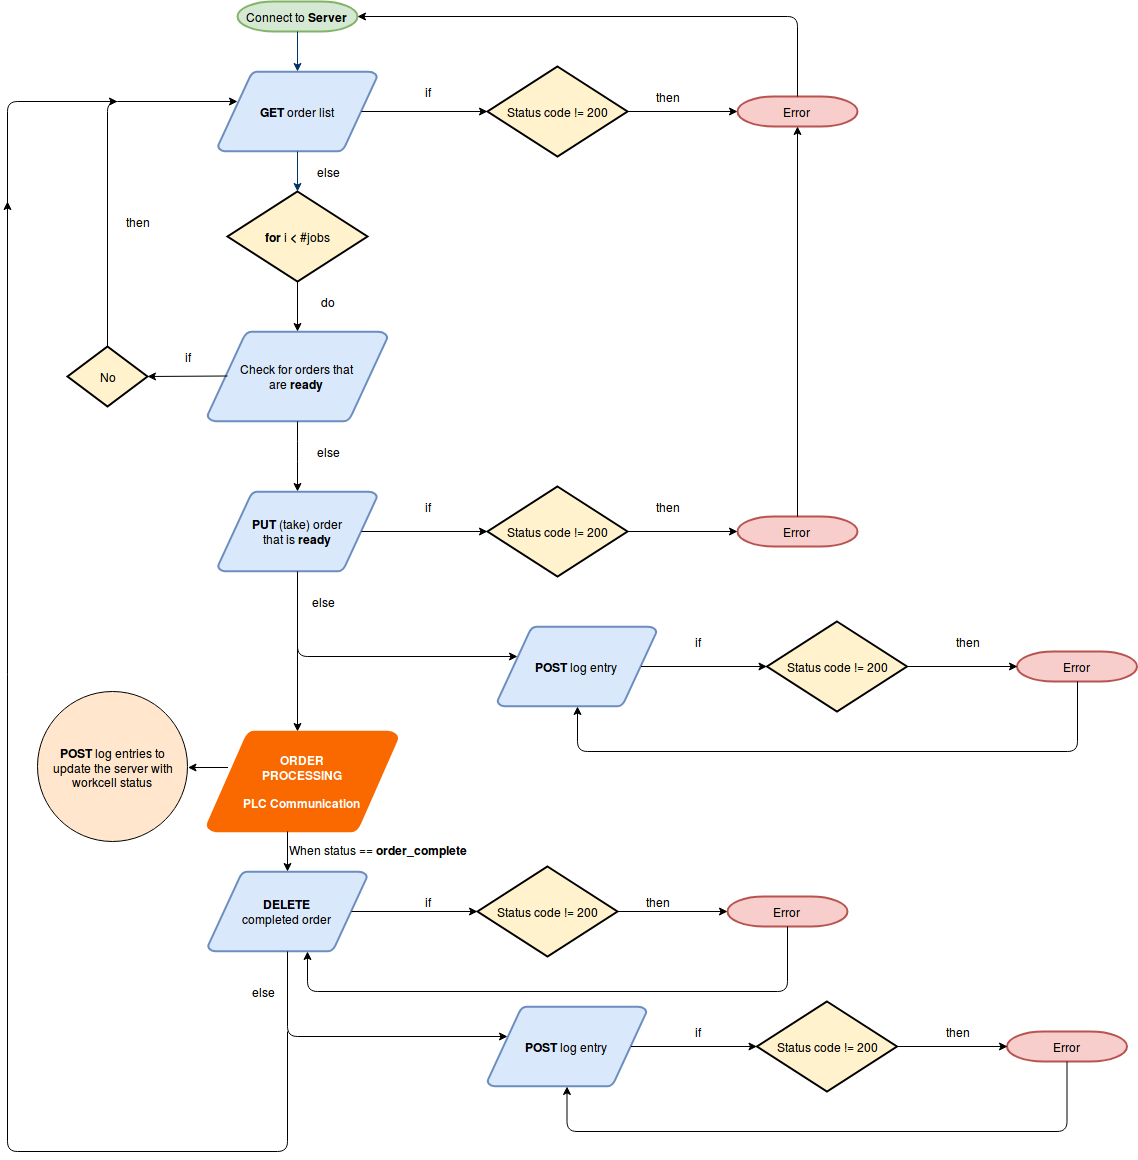
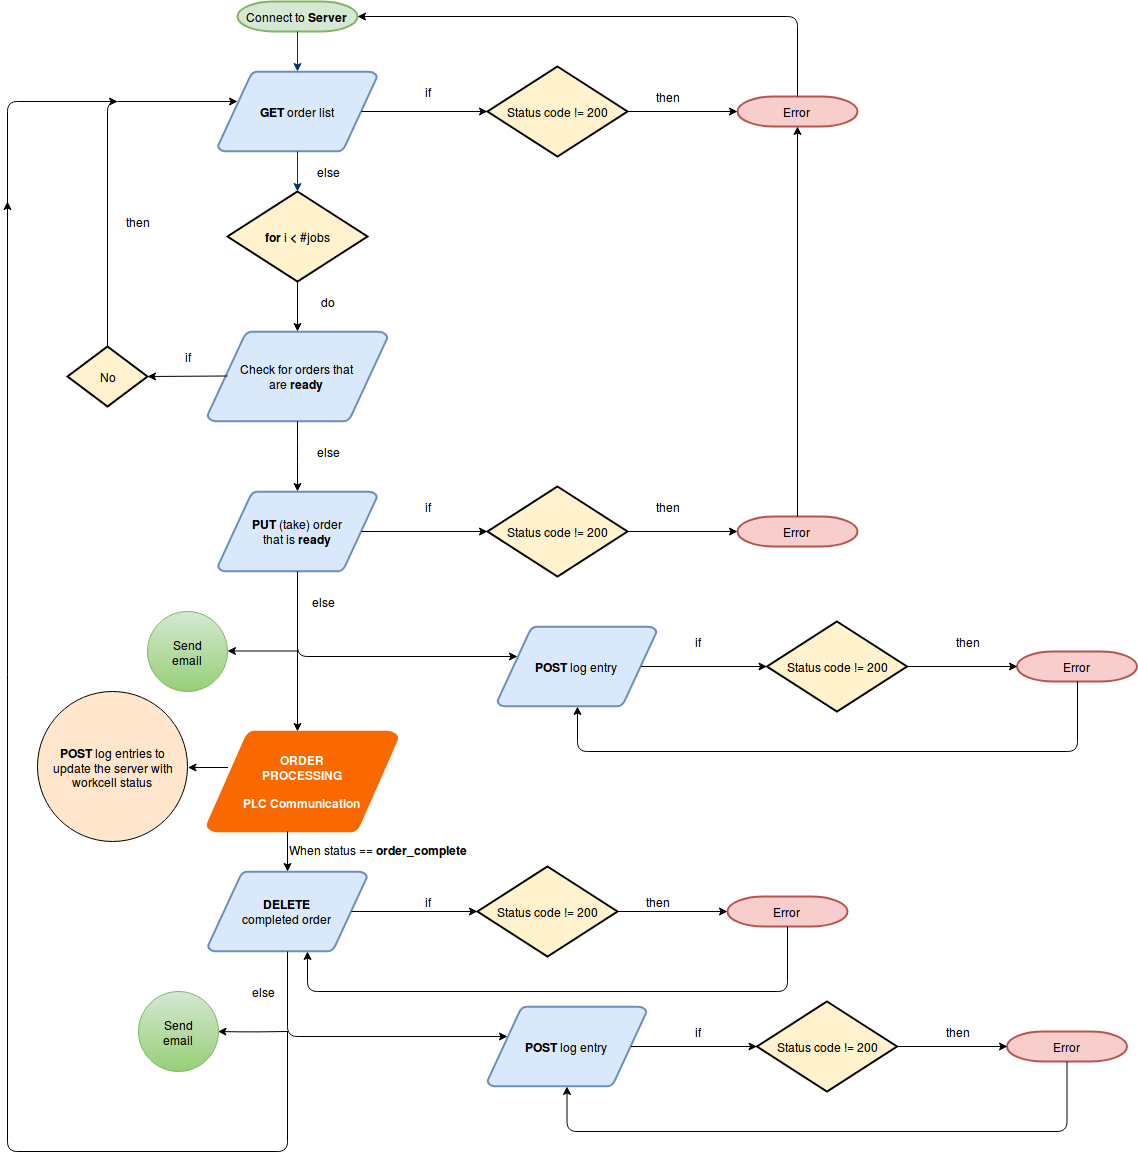
Client version 2.0

Changed region(s): [[0.123, 0.8379, 0.2153, 0.931], [0.123, 0.5276, 0.2153, 0.6207]]

diff --git a/RSD2018/Client/mes_client.py b/RSD2018/Client/mes_client.py
@@ -12,7 +12,10 @@ print "##  WORKCELL #3 ONLINE MANAGER  ##"
 print "################################## \n"
 
 # Define url and paths
-_url = 'http://localhost:5000'
+#_host = 'localhost' # Debug
+_host = '192.168.100.200'
+#_url = 'http://' + _host + ':5000'
+_url = 'http://' + _host
 _log = '/log'
 _orders = '/orders'
 _events = '/event_types'
@@ -73,11 +76,12 @@ while True:
         errSub = "WARNING! All orders taken!"
         rerrtime = mes_api.get_time(rerr.status_code)
         errMsg = Msg + rerrtime
-        feedback_api.mail_feedback(errSub, errMsg)
+        print errMsg
+        #feedback_api.mail_feedback(errSub, errMsg)
         if rerr.status_code != 200:
             print "Raised API Error on POST request. Status code " + str(rerr.status_code) + "\n"
         else:
-            print "POST request indicating No-Order status to" + _url + " succesful"
+            print "POST request indicating No-Order status to " + _url + " succesful"
             rerrtime = mes_api.get_time(rerr.status_code)
             print rerrtime
             mes_api.die(8)
@@ -97,14 +101,16 @@ while True:
             print rtime
 
             # Get the ticket of the order
-            ticket = mes_api.get_ticket(_id)
+            jsonPUT = r.json()
+            ticket = jsonPUT['ticket']
             putSub = "Order " + str(_id) + " ticket: " + str(ticket)
             print putSub
 
             # Send email notification
             hah = "Order taken and ready to be processed. \n" + "\n"
             putBody = putSub +"\n" + "\n" + hah + rtime
-            feedback_api.mail_feedback(putSub, putBody)
+            print putBody
+            #feedback_api.mail_feedback(putSub, putBody)
 
             # Call GET method to see 
             r2 = mes_api.get_single(_url, _orders, _id)
@@ -117,19 +123,19 @@ while True:
 
                 # Call POST method to add new log entry on Order_Start
                 _idstr = str(_id)
-                cmnt = str(ticket)
+                cmnt = _idstr + ", " + str(ticket)
                 r3 = mes_api.post_log(_url, _log, cell_id, cmnt, events_dict[7])
                 if r3.status_code != 200:
                     print "Raised API Error on POST request. Status code " + str(r3.status_code)
                 else:
-                    print "POST request " + _url + _orders + " succesful"
+                    print "POST request " + _url + _log + " succesful"
                     r3time = mes_api.get_time(r3.status_code)
                     print r3time
 
             #####     Order processing      #####
-            print "Processing order..."
-            mes_api.die(5)
-            mes_api.plc_control(_plc, events_dict, _url, _log, cell_id, cmnt)
+            print "Processing order... \n"
+            mes_api.die(25)
+            #mes_api.plc_control(_plc, events_dict, _url, _log, cell_id, cmnt)
 
 
             ##### PackML related code here  #####
@@ -138,9 +144,9 @@ while True:
             ##########################################################################
             # 3. DELETE ORDER -- Call DELETE method to erase completed order from DB #
             ##########################################################################
-            resp = mes_api.delete_order(_url, _orders, _id)
+            resp = mes_api.delete_order(_url, _orders, _id, ticket)
             if resp.status_code != 200:
-                print "Raised API Error on DELETE request. Status code " + str(resp.status_code)
+                print "Raised API Error on DELETE request. Status code " + str(resp.status_code) + "\n \n \n"
             else:
                 succDel = "DELETE request " + _url + _orders + " succesful"
                 print succDel
@@ -150,17 +156,18 @@ while True:
                 # Send email notification
                 lal = "Order " + str(_id) + " completed. \n \n Total score: \n" + str(mes_api.global_score) + " boxes. \n" + "\n"
                 delBody = succDel + "\n" + "\n" + lal + deltime
-                feedback_api.mail_feedback(putSub, delBody)                
+                print delBody
+                #feedback_api.mail_feedback(putSub, delBody)                
 
-                # Log entry indicating deletion of the complete order
+                # POST Log entry indicating deletion of the complete order
                 r4 = mes_api.post_log(_url, _log, cell_id, cmnt, events_dict[8])
                 if r4.status_code != 200:
                     print "Raised API Error on POST request. Status code " + str(r4.status_code)
                 else:
-                    print "POST request " + _url + _orders + " succesful"
+                    print "POST request " + _url + _log + " succesful"
                     r4time = mes_api.get_time(r4.status_code)
                     print r4time
-                    print "\n"
+                    print "\n \n \n \n"
 
 
 # Never ending loop

diff --git a/RSD2018/Client_rpi_version/mes_client.py b/RSD2018/Client_rpi_version/mes_client.py
@@ -12,7 +12,10 @@ print ("##  WORKCELL #3 ONLINE MANAGER  ##")
 print ("################################## \n")
 
 # Define url and paths
-_url = 'http://localhost:5000'
+#_host = 'localhost' # Debug
+_host = '192.168.100.200'
+#_url = 'http://localhost:5000' # Debug
+_url = 'http://' + _host
 _log = '/log'
 _orders = '/orders'
 _events = '/event_types'
@@ -69,6 +72,12 @@ while True:
     if _id == -1:
         cerr = "waiting - all orders taken"
         rerr = mes_api.post_log(_url, _log, cell_id, cerr, events_dict[0])
+        Msg = "No order is available at the moment. System is waiting. \n \n"
+        errSub = "WARNING! All orders taken!"
+        rerrtime = mes_api.get_time(rerr.status_code)
+        errMsg = Msg + rerrtime
+        #feedback_api.mail_feedback(errSub, errMsg)
+        print errMsg
         if rerr.status_code != 200:
             print ("Raised API Error on POST request. Status code " + str(rerr.status_code) + "\n")
         else:
@@ -92,14 +101,16 @@ while True:
             print rtime
 
             # Get the ticket of the order
-            ticket = mes_api.get_ticket(_id)
+            jsonPUT = r.json()
+            ticket = jsonPUT['ticket']
             putSub = "Order " + str(_id) + " ticket: " + str(ticket)
             print putSub
 
             # Send email notification
             hah = "Order taken and ready to be processed. \n" + "\n"
             putBody = putSub +"\n" + "\n" + hah + rtime
-            feedback_api.mail_feedback(putSub, putBody)
+            #feedback_api.mail_feedback(putSub, putBody)
+            print putBody
 
             # Call GET method to see 
             r2 = mes_api.get_single(_url, _orders, _id)
@@ -112,19 +123,19 @@ while True:
 
                 # Call POST method to add new log entry on Order_Start
                 _idstr = str(_id)
-                cmnt = str(ticket)
+                cmnt = _idstr + ", " + str(ticket)
                 r3 = mes_api.post_log(_url, _log, cell_id, cmnt, events_dict[7])
                 if r3.status_code != 200:
                     print ("Raised API Error on POST request. Status code " + str(r3.status_code))
                 else:
-                    print ("POST request " + _url + _orders + " succesful")
+                    print ("POST request " + _url + _log + " succesful")
                     r3time = mes_api.get_time(r3.status_code)
                     print r3time
 
             #####     Order processing      #####
-            print ("Processing order...")
-            mes_api.die(5)
-            mes_api.plc_control(_plc, events_dict, _url, _log, cell_id, cmnt)
+            print ("Processing order... \n")
+            mes_api.die(15)
+            #mes_api.plc_control(_plc, events_dict, _url, _log, cell_id, cmnt)
 
 
             ##### PackML related code here  #####
@@ -133,7 +144,7 @@ while True:
             ##########################################################################
             # 3. DELETE ORDER -- Call DELETE method to erase completed order from DB #
             ##########################################################################
-            resp = mes_api.delete_order(_url, _orders, _id)
+            resp = mes_api.delete_order(_url, _orders, _id, ticket)
             if resp.status_code != 200:
                 print ("Raised API Error on DELETE request. Status code " + str(resp.status_code))
             else:
@@ -145,17 +156,18 @@ while True:
                 # Send email notification
                 lal = "Order " + str(_id) + " completed. \n \n Total score: \n" + str(mes_api.global_score) + " boxes. \n" + "\n"
                 delBody = succDel + "\n" + "\n" + lal + deltime
-                feedback_api.mail_feedback(putSub, delBody)                
+                print delBody
+                #feedback_api.mail_feedback(putSub, delBody)                
 
-                # Log entry indicating deletion of the complete order
+                # POST Log entry indicating deletion of the complete order
                 r4 = mes_api.post_log(_url, _log, cell_id, cmnt, events_dict[8])
                 if r4.status_code != 200:
                     print ("Raised API Error on POST request. Status code " + str(r4.status_code))
                 else:
-                    print ("POST request " + _url + _orders + " succesful")
+                    print ("POST request " + _url + _log + " succesful")
                     r4time = mes_api.get_time(r4.status_code)
                     print r4time
-                    print ("\n")
+                    print ("\n \n \n")
 
 
 # Never ending loop

diff --git a/RSD2018/Client/initia.py b/RSD2018/Client/initia.py
@@ -13,7 +13,9 @@ print "######################################### \n"
 
 
 # Define url and paths
-_url = 'http://localhost:5000'
+#_url = 'http://localhost:5000'
+_host = '192.168.100.200'
+_url = 'http://' + _host
 _events = '/event_types'
 
 resp = mes_api.get_events(_url, _events)
@@ -22,11 +24,22 @@ if resp.status_code != 200:
     err = "Raised API Error on GET request. Connection to MES server failed." + "\n" + "\n"
     errtime = mes_api.get_time(resp.status_code)
     errBody = err + errtime
-    feedback_api.mail_feedback(respSub, errBody)
+    print errBody
+    #feedback_api.mail_feedback(respSub, errBody)
 
 else:
     succ = "Tried GET request " + _url + _events + " succesful. \n \n System connected to the server." + "\n" + "\n"
     succtime = mes_api.get_time(resp.status_code)
     succBody = succ + succtime
-    feedback_api.mail_feedback(respSub, succBody)
+    print succBody
+    # Create JSON object
+    jsonObj = resp.json()
+    # Check & Print JSON object array length
+    lgth = len(jsonObj['EventTypes'])
+    print "  >> JSON object length = " + str(lgth) + "\n"
+    #feedback_api.mail_feedback(respSub, succBody)
+
+_id = 656
+tik = mes_api.get_ticket(_id, _host)
+print "Ticket of order " + _id + " = " + tik
 

diff --git a/RSD2018/Client/mes_api.py b/RSD2018/Client/mes_api.py
@@ -46,11 +46,12 @@ def die(secs):
     time.sleep(secs)
 
 # Get ticket from database
-def get_ticket(_id):
+def get_ticket(_id, _host):
     # Connect to database
-    conn = pymysql.connect(host='localhost',
-                           user='rsd',
-                           password='rsd2018',
+    # On localhost use utf8 charset
+    conn = pymysql.connect(host=_host,
+                           user='mirex',
+                           password='robot2018',
                            db='rsd2018',
                            charset='utf8',
                            cursorclass=pymysql.cursors.DictCursor)
@@ -78,10 +79,12 @@ def post_log(_url, path, cid, cmnt, evt):
     return requests.post(pst_url, json=log)
 
 # Delete an order (DELETE)
-def delete_order(_url, path, d):
-    _idd = '/' + str(d)
+def delete_order(_url, path, id, ticket):
+    body = {"ticket":ticket}
+    _idd = '/' + str(id)
     d_url = _url + path + _idd
-    return requests.delete(d_url)
+    return requests.delete(d_url, json=body)
+
 
 # PLC communication during the processing of the order
 def plc_control(_plc, events, _url, _path, cid, cmt):

diff --git a/RSD2018/Client/tests/flush_real_db.py b/RSD2018/Client/tests/flush_real_db.py
@@ -1,0 +1,32 @@
+import pymysql.cursors
+import pymysql
+
+# Get ticket from database
+def get_ticket(_id, _host):
+    # Connect to database
+    # On localhost use utf8 charset
+    conn = pymysql.connect(host=_host,
+                           user='mirex',
+                           password='robot2018',
+                           db='RSD MES master',
+                           charset='utf8mb4',
+                           cursorclass=pymysql.cursors.DictCursor)
+    
+    try:
+        with conn.cursor() as cursor:
+            # Select ticket 
+            select_stmt = "select id, ticket from rsd2018.jobs where id = %s"
+            cursor.execute(select_stmt, _id)
+            result = cursor.fetchone()
+    finally:
+            # Close connection
+        conn.close()
+    
+    return result
+
+
+_host = '192.168.100.200'
+_id = 656
+
+ticket = get_ticket(_id, _host)
+print ticket

diff --git a/RSD2018/Client_rpi_version/initia.py b/RSD2018/Client_rpi_version/initia.py
@@ -17,7 +17,10 @@ _arg = sys.argv[1]
 _ipOwn = str(_arg)
 
 # Define url and paths
-_url = 'http://192.168.1.100:5000'
+#_host = 'localhost'
+_host = '192.168.100.200'
+#_url = 'http://' + _host + ':5000' # Debug
+_url = 'http://' + _host
 _events = '/event_types'
 
 # Define output file
@@ -38,9 +41,12 @@ else:
     succ = "Tried GET request " + _url + _events + " succesful. \n \n System connected to the server." + "\n" + "\n"
     succtime = mes_api.get_time(resp.status_code)
     succBody = _own + succ + succtime
-    feedback_api.mail_feedback(respSub, succBody)
+    #feedback_api.mail_feedback(respSub, succBody)
+    print succBody
     fi.write("Connected to MES Server \n")
     
+
+print (" \n \n --------------------------------------------------------------------------- \n \n")
 
 # PLC test
     

diff --git a/RSD2018/Client/tests/DELETE_realDB_test.py b/RSD2018/Client/tests/DELETE_realDB_test.py
@@ -1,0 +1,23 @@
+#!/usr/bin/python
+
+import requests
+
+def deletion(_url, path, id, ticket):
+    body = {"ticket":ticket}
+    _idd = '/' + str(id)
+    d_url = _url + path + _idd
+    return requests.delete(d_url, data=json.dumps(body))
+
+_host = 'localhost'
+_url = 'http://' + _host + ':5000'
+_order = '/orders'
+
+_id = 142
+_tk = 'EA4047'
+
+resp = deletion(_url, _order, _id, _tk)
+if resp.status_code != 200:
+    print "Raised API Error on DELETE request. Status code " + str(resp.status_code)
+else:
+    succDel = "DELETE request " + _url + _order + " succesful"
+    print succDel

diff --git a/RSD2018/Client_rpi_version/mes_api.py b/RSD2018/Client_rpi_version/mes_api.py
@@ -78,10 +78,11 @@ def post_log(_url, path, cid, cmnt, evt):
     return requests.post(pst_url, json=log)
 
 # Delete an order (DELETE)
-def delete_order(_url, path, d):
-    _idd = '/' + str(d)
+def delete_order(_url, path, id, ticket):
+    body = {"ticket":ticket}
+    _idd = '/' + str(id)
     d_url = _url + path + _idd
-    return requests.delete(d_url)
+    return requests.delete(d_url, json=body)
 
 # PLC communication during the processing of the order
 def plc_control(_plc, events, _url, _path, cid, cmt):

diff --git a/Readme.md b/Readme.md
@@ -387,7 +387,11 @@ link-local      *               255.255.0.0     U     1000   0        0 wlp2s0
 192.168.1.0     *               255.255.255.0   U     600    0        0 wlp2s0
 ```
 
-## 5. Debugging
+## 5. Real Operation Running
+
+Disabled email functionality because RSD MES master network does not allow internet connection.
+
+## 6. Debugging
 
 - **Create jobs execution bug:**
 
